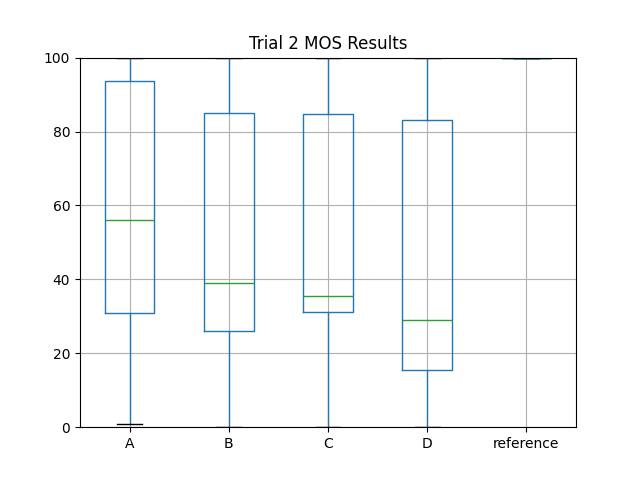
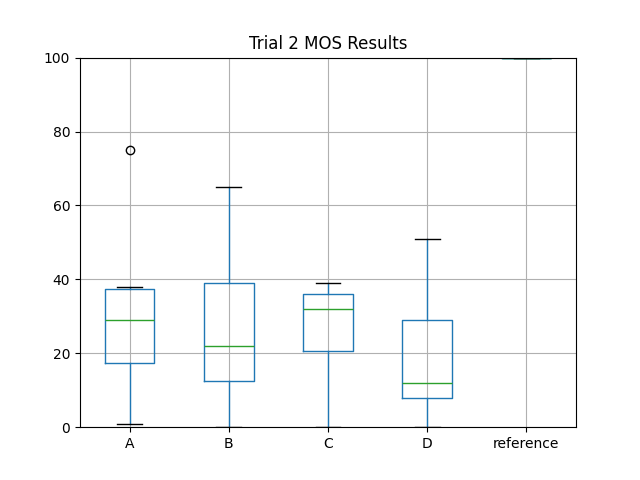
Final results
We couldve done a better anchor :(

diff --git a/scripts/make_graphs.py b/scripts/make_graphs.py
@@ -3,7 +3,7 @@ import matplotlib
 import numpy as np
 import pandas as pd
 
-df = pd.read_csv('./results.csv')
+df = pd.read_csv('./mushra.csv')
 examinee_num = len(df['session_uuid'].unique())
 df = df[['trial_id', 'rating_stimulus', 'rating_score']]
 
